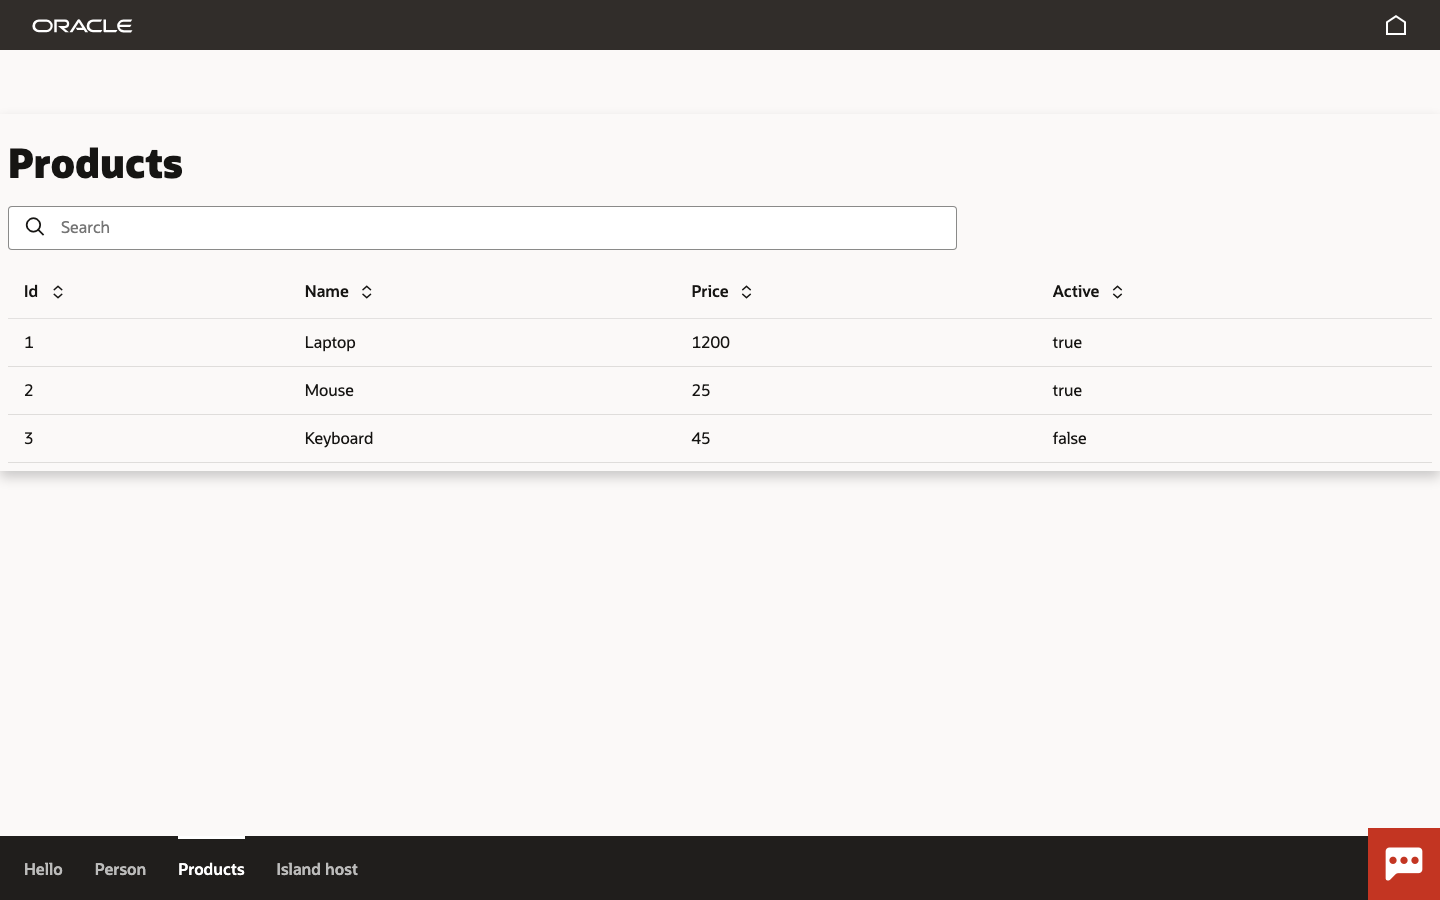
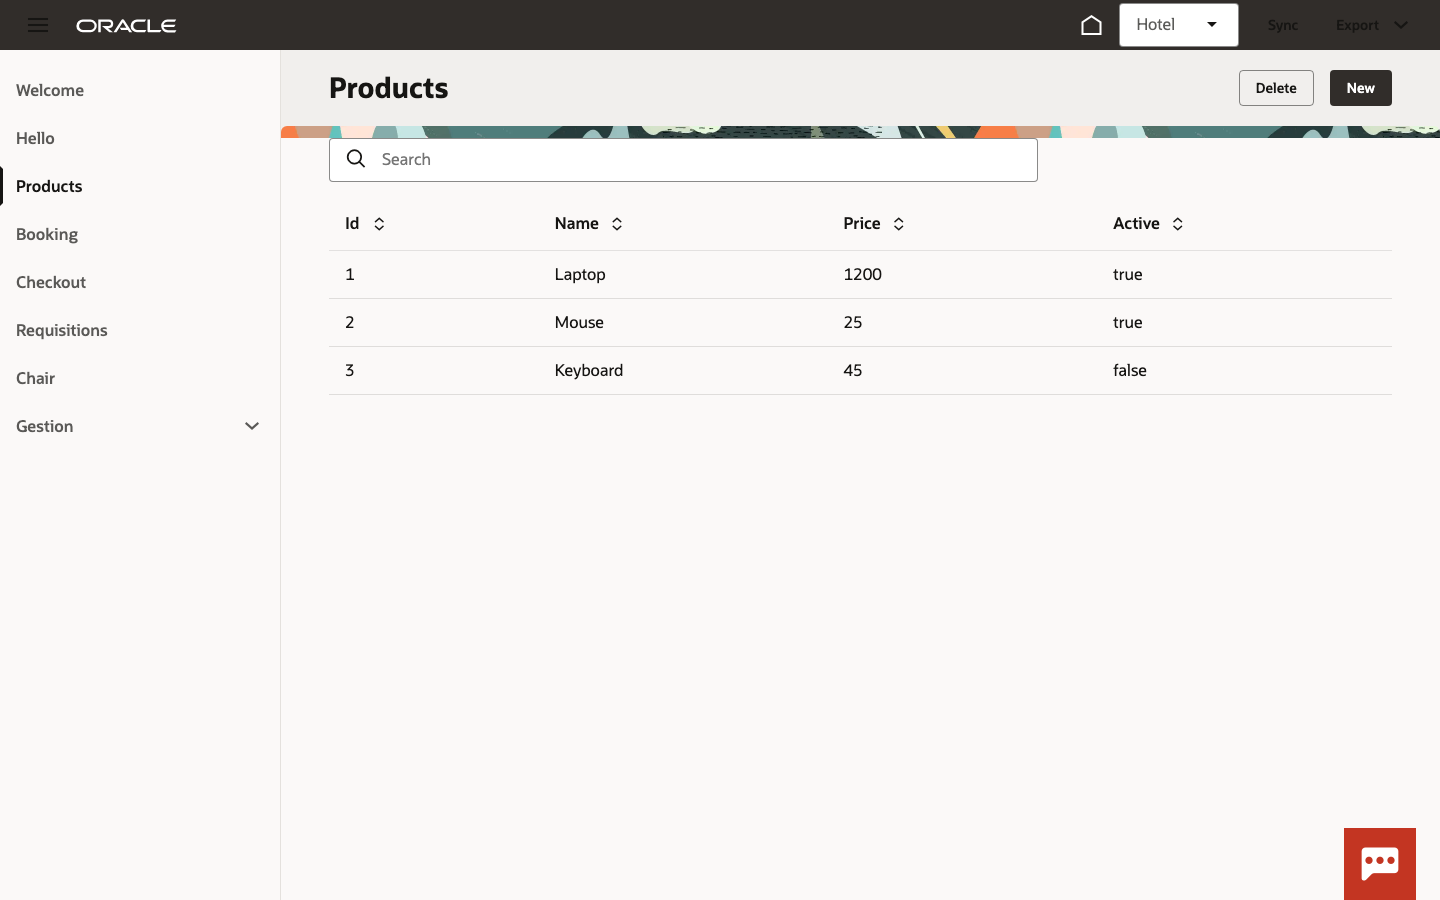
feat(vb): todo header de página se pinta con headers de vb/redwood
- Listados: oj-sp-smart-filter-search (pageTitle + toolbar del crud como
  primary/secondaryActions; tabla y búsqueda en su slot main)
- Resto de páginas (form/texto/foldout/item overview/isla):
  oj-sp-header-general-overview sin switcher (page-title +
  display-options.go-to-parent=false), a sangre; el contenido recupera el
  gutter con oj-sm-padding-4x-horizontal
- Los templates con header integrado (guided process, general overview,
  welcome banner) suprimen el genérico; h1 eliminado del renderer

diff --git a/.dev/vb/mateu-vb/webApps/vbredwoodapp/flows/main/pages/main-start-page.html b/.dev/vb/mateu-vb/webApps/vbredwoodapp/flows/main/pages/main-start-page.html
@@ -8,18 +8,18 @@
   :style.max-width="[[ $application.variables.mateuPageMaxWidth ]]"
   :style.margin="[[ $application.variables.mateuPageMargin ]]"
   :style.padding="[[ $application.variables.mateuPagePadding ]]">
-<!-- el h1 de página SOBRA en un wizard: el guided-process ya lleva el título
-     (overview + cabecera propia) -->
-<!-- regla general: una página CON header Redwood (wizard/overview/welcome) no lleva
-     h1 propio — lo que hubiera en él se integra en el header Redwood -->
-<oj-bind-if test="[[ !$application.variables.mateuWizard && !$application.variables.mateuOverview && !$application.variables.mateuWelcome ]]">
-<div class="oj-flex">
-  <h1 class="oj-flex-item oj-sm-12 oj-md-12"><oj-bind-text value="[[ $application.variables.mateuHostTitle ]]"></oj-bind-text></h1>
-</div>
+<!-- regla general: TODA página pinta su header con el header de vb
+     (oj-sp-header-general-overview sin switcher) salvo los templates que ya lo
+     integran: guided process, general overview, welcome banner y el
+     smart-filter-search del listado -->
+<oj-bind-if test="[[ !!$application.variables.mateuPageHeader ]]">
+  <oj-sp-header-general-overview id="mateuPageHeaderEl"
+    page-title="[[ $application.variables.mateuPageHeader.title ]]"
+    display-options.go-to-parent="false"></oj-sp-header-general-overview>
 </oj-bind-if>
 
 <oj-bind-if test="[[ !$application.variables.mateuFormMetadata ]]">
-  <div class="oj-flex">
+  <div class="oj-flex oj-sm-padding-4x-horizontal">
     <div class="oj-flex-item oj-sm-12 oj-md-12">
       <oj-bind-text
         value="[[ $application.variables.mateuHostText ]]"
@@ -115,7 +115,7 @@
 
 <!-- Arquetipo ITEM OVERVIEW: datos clave a la izquierda + tabs a la derecha -->
 <oj-bind-if test="[[ !!$application.variables.mateuItemOv ]]">
-  <div class="oj-flex">
+  <div class="oj-flex oj-sm-padding-4x-horizontal">
     <div class="oj-flex-item oj-sm-12 oj-md-4">
       <div class="oj-panel oj-sm-margin-2x">
         <oj-bind-for-each data="[[ $application.variables.mateuItemOv.key.texts ]]">
@@ -147,22 +147,20 @@
 </oj-bind-if>
 
 <oj-bind-if test="[[ !!$application.variables.mateuListing ]]">
-  <div class="oj-flex oj-sm-align-items-center">
+  <!-- header de colección Redwood: título + acciones del crud integradas (New = primary,
+       resto = secondary); la tabla va en su slot main -->
+  <oj-sp-smart-filter-search id="mateuListHeader"
+    page-title="[[ $application.variables.mateuHostTitle ]]"
+    primary-action="[[ $application.variables.mateuListPrimary ]]"
+    secondary-actions="[[ $application.variables.mateuListSecondary ]]"
+    on-sp-primary-action="[[ $listeners.listPrimary ]]"
+    on-sp-secondary-action="[[ $listeners.listSecondary ]]">
+  <div slot="main" class="oj-sm-padding-4x-horizontal">
+  <div class="oj-flex">
     <div class="oj-flex-item oj-sm-12 oj-md-8">
       <oj-input-search id="mateuSearch" class="oj-sm-margin-4x-bottom"
         placeholder="Search"
         on-oj-value-action="[[ $listeners.mateuSearchAction ]]"></oj-input-search>
-    </div>
-    <div class="oj-flex-item oj-sm-12 oj-md-4 oj-sm-align-self-flex-end">
-      <!-- toolbar del crud (p.ej. New) — botones del wire de Mateu -->
-      <oj-bind-for-each data="[[ $application.variables.mateuListing.toolbar ]]">
-        <template>
-          <oj-button class="oj-sm-margin-2x-start"
-            :data-action-id="[[ $current.data.actionId ]]"
-            chroming="callToAction"
-            on-oj-action="[[ $listeners.mateuActionClicked ]]"><oj-bind-text value="[[ $current.data.label ]]"></oj-bind-text></oj-button>
-        </template>
-      </oj-bind-for-each>
     </div>
   </div>
   <div class="oj-flex">
@@ -181,6 +179,8 @@
       </oj-table>
     </div>
   </div>
+  </div>
+  </oj-sp-smart-filter-search>
 </oj-bind-if>
 
 <!-- Drawer del crud (editInDrawer): panel end auténtico de JET; los campos y botones salen
@@ -295,7 +295,7 @@
 </oj-bind-if>
 
 <oj-bind-if test="[[ !!$application.variables.mateuFormMetadata && !$application.variables.mateuWizard ]]">
-  <div class="oj-flex">
+  <div class="oj-flex oj-sm-padding-4x-horizontal">
     <div class="oj-flex-item oj-sm-12 oj-md-6">
       <oj-sp-messages-toast primary-text="[[ $variables.mateuToastText ]]" id="mateuToast"></oj-sp-messages-toast>
       <oj-form-layout id="mateuForm">
@@ -347,7 +347,7 @@
 <!-- Isla embebida (Fase 9): superficie PROPIA alimentada por contexts[islandId] — sus
      acciones (Edit/Save) solo repintan la isla; el host no se toca -->
 <oj-bind-if test="[[ !!$application.variables.mateuIsland ]]">
-  <div class="oj-flex">
+  <div class="oj-flex oj-sm-padding-4x-horizontal">
     <div class="oj-flex-item oj-sm-12 oj-md-6">
       <oj-sp-messages-toast primary-text="[[ $variables.mateuToastText ]]" id="mateuIslandToast"></oj-sp-messages-toast>
       <oj-form-layout id="mateuIslandForm">

diff --git a/.dev/vb/mateu-vb/webApps/vbredwoodapp/pages/shell-page-chains/onMateuNavigate.js b/.dev/vb/mateu-vb/webApps/vbredwoodapp/pages/shell-page-chains/onMateuNavigate.js
@@ -91,6 +91,13 @@ define([
             actions: bridge.actionsOf(islandContext.tree) }
         : null;
 
+      // header de colección: toolbar del crud → primaryAction/secondaryActions
+      const toolbar = listingSummary ? listingSummary.toolbar : [];
+      const primaryToolbar = toolbar.length ? toolbar[0] : null;
+      $application.variables.mateuListPrimary = primaryToolbar
+        ? { label: primaryToolbar.label } : { label: '', display: 'off' };
+      $application.variables.mateuListPrimaryId = primaryToolbar ? primaryToolbar.actionId : '';
+      $application.variables.mateuListSecondary = toolbar.slice(1).map((b) => ({ label: b.label }));
       const summary = bridge.summarizeHost(reg, route);
       $application.variables.mateuHostTitle = summary.title;
       $application.variables.mateuOverviewTranslations = { goToParent: summary.title };
@@ -140,6 +147,12 @@ define([
         $application.variables.mateuFormFieldsList = [];
         $application.variables.mateuFormActions = [];
       }
+      // regla general: el header de página lo pinta SIEMPRE un header de vb; solo los
+      // templates que ya integran el suyo (guided process / general overview / welcome /
+      // smart-filter-search del listado) lo suprimen
+      const integratedHeader = !!($application.variables.mateuWizard || welcome
+        || overviewProjection || listingSummary);
+      $application.variables.mateuPageHeader = integratedHeader ? null : { title: summary.title };
       // 1.3: banners de página → el oj-sp-messages-banner del starter (shell).
       // El ADP se muta con fireDataProviderEvent (asignar .data no refresca)
       const banners = bridge.bannersOf(host);
@@ -163,7 +176,9 @@ define([
       $application.variables.mateuPageMargin = pageStyle.margin;
       $application.variables.mateuPagePadding = pageStyle.padding;
       if ($application.variables.mateuWelcome || $application.variables.mateuOverview
-          || $application.variables.mateuWizard) {
+          || $application.variables.mateuWizard || listingSummary
+          || $application.variables.mateuPageHeader) {
+        // header Redwood a sangre: el gutter lo recupera cada rama de contenido
         $application.variables.mateuPagePadding = '0';
       }
       // 1.5: la URL refleja la ruta (hash — deep-linkable y con back/forward)

diff --git a/.dev/vb/mateu-vb/webApps/vbredwoodapp/flows/main/pages/main-start-page-chains/runMateuAction.js b/.dev/vb/mateu-vb/webApps/vbredwoodapp/flows/main/pages/main-start-page-chains/runMateuAction.js
@@ -83,6 +83,13 @@ define([
       $application.variables.mateuFoldout = bridge.foldoutOf(hostAfter);
       $application.variables.mateuWizard = bridge.wizardOf(hostAfter);
 
+      // header de colección: toolbar del crud → primaryAction/secondaryActions
+      const toolbar = listingSummary ? listingSummary.toolbar : [];
+      const primaryToolbar = toolbar.length ? toolbar[0] : null;
+      $application.variables.mateuListPrimary = primaryToolbar
+        ? { label: primaryToolbar.label } : { label: '', display: 'off' };
+      $application.variables.mateuListPrimaryId = primaryToolbar ? primaryToolbar.actionId : '';
+      $application.variables.mateuListSecondary = toolbar.slice(1).map((b) => ({ label: b.label }));
       const summary = bridge.summarizeHost(reg, route);
       $application.variables.mateuHostTitle = summary.title;
       $application.variables.mateuHostText = summary.text;
@@ -125,6 +132,12 @@ define([
         $application.variables.mateuFormFieldsList = [];
         $application.variables.mateuFormActions = [];
       }
+      // regla general: el header de página lo pinta SIEMPRE un header de vb; solo los
+      // templates que ya integran el suyo (guided process / general overview / welcome /
+      // smart-filter-search del listado) lo suprimen
+      const integratedHeader = !!($application.variables.mateuWizard || welcome
+        || overviewProjection || listingSummary);
+      $application.variables.mateuPageHeader = integratedHeader ? null : { title: summary.title };
       $application.variables.mateuDirty = false;
 
       // toast con el patrón del starter: variable + open() del oj-sp-messages-toast local

diff --git a/.dev/vb/mateu-vb/webApps/vbredwoodapp/flows/main/pages/main-start-page-chains/onListSecondary.js b/.dev/vb/mateu-vb/webApps/vbredwoodapp/flows/main/pages/main-start-page-chains/onListSecondary.js
@@ -1,0 +1,42 @@
+/* Header de colección: acción secundaria (Delete…) — el detail trae el ITEM (por label);
+ * se resuelve contra la toolbar del crud y se despacha su actionId. */
+
+define([
+  'vb/action/actionChain',
+  'vb/action/actions',
+], (
+  ActionChain,
+  Actions,
+) => {
+  'use strict';
+
+  class onListSecondary extends ActionChain {
+
+    /**
+     * @param {Object} context
+     * @param {Object} params
+     * @param {Object} params.event  spSecondaryAction ({detail: {secondaryItem}})
+     */
+    async run(context, { event }) {
+      const { $application } = context;
+
+      const detail = (event && event.detail) || {};
+      const label = detail.secondaryItem && detail.secondaryItem.label
+        ? detail.secondaryItem.label : detail.secondaryItem;
+      const listing = $application.variables.mateuListing;
+      if (!listing || label == null) {
+        return;
+      }
+      const match = (listing.toolbar || []).find((b) => b.label === label);
+      if (!match) {
+        return;
+      }
+      await Actions.callChain(context, {
+        chain: 'runMateuAction',
+        params: { actionId: match.actionId },
+      });
+    }
+  }
+
+  return onListSecondary;
+});

diff --git a/.dev/vb/DESIGN-NOTES.md b/.dev/vb/DESIGN-NOTES.md
@@ -445,6 +445,26 @@ header va A SANGRE (sin padding arriba ni a los lados): las proyecciones fuerzan
 `mateuPagePadding='0'` cuando hay header Redwood y el contenido inferior recupera los gutters
 con clases utilitarias del sistema (`oj-sm-padding-4x-horizontal`). Cero CSS propio.
 
+**Generalización (feedback, 2026-07-25): TODA página pinta su header con un header de vb** —
+el h1 se ELIMINÓ del renderer. Reparto por tipo de página:
+
+- **Listado (crud)** → `oj-sp-smart-filter-search`: pageTitle + `primaryAction` (primer botón
+  de la toolbar del wire, p.ej. New) + `secondaryActions` (resto, p.ej. Delete); la tabla y la
+  búsqueda van en su slot `main` (con `oj-sm-padding-4x-horizontal`). Eventos
+  `spPrimaryAction`/`spSecondaryAction` → runMateuAction (el secondary llega con
+  `detail.secondaryItem` = item/label → se resuelve contra la toolbar). `primaryAction` nunca
+  null: `{label:'', display:'off'}` cuando no hay toolbar.
+- **Página genérica (form / texto / foldout / item overview / isla)** →
+  `oj-sp-header-general-overview` SIN switcher (todas sus props son opcionales): `page-title` +
+  `display-options.go-to-parent="false"` (si no, pinta el link "Parent page" por defecto).
+  Proyección `mateuPageHeader = {title}` en ambos chains; null cuando el template ya integra su
+  header (wizard/overview/welcome/listado) — esos suprimen el genérico.
+- Los botones de formulario/isla se quedan con su contenido (el wire de Mateu no distingue
+  toolbar de página vs botones de form en `actionsOf`; los del crud sí viajan aparte).
+
+Evidencia: `shots/fase4.png` (products), `hdr-person.png`, `hdr-island.png`, `hdr-hello.png`,
+`hdr-booking.png`, `hdr-chair.png`.
+
 ## Arquetipos Welcome / General Overview / Item Overview — HECHOS (pendiente de verificación)
 
 - Confirmada la tesis del diseño: los tres son COMPOSICIÓN del núcleo — welcome = HeroSection +
